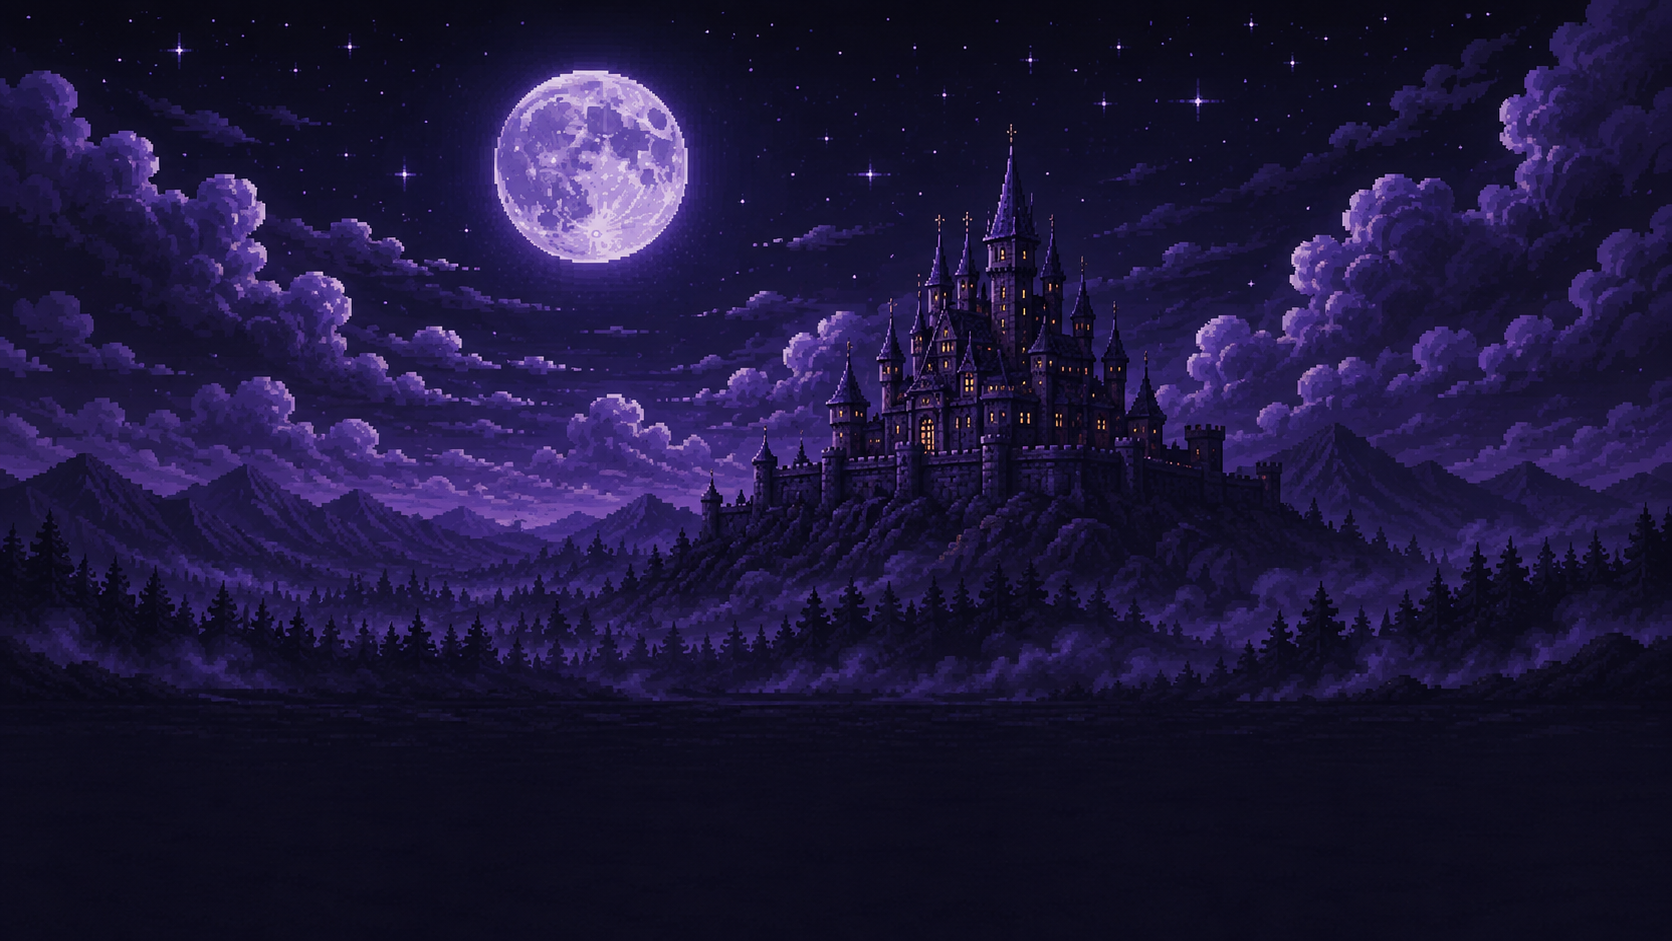
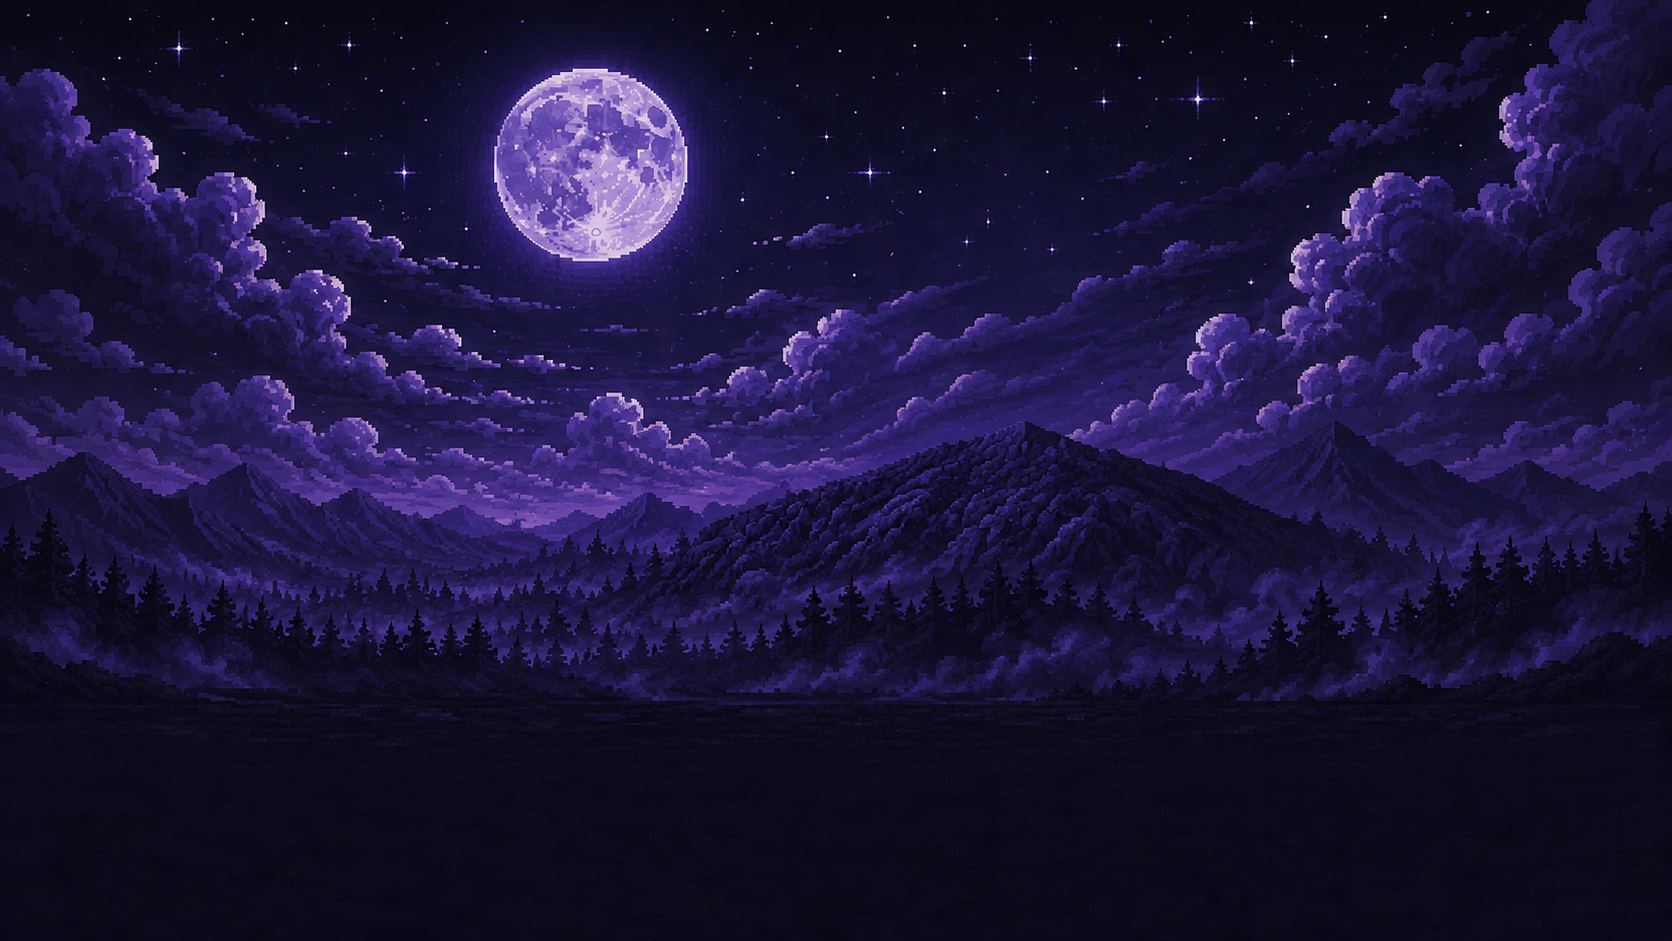
Remove all Map 1 buildings

diff --git a/app/game.tsx b/app/game.tsx
@@ -1118,10 +1118,6 @@ export default function AshfallGame() {
     const drawWorld=(w:number,h:number,scale:number,now:number)=>{
       ctx.save();ctx.scale(scale,scale);ctx.translate(-cameraX,0);
       const viewW=w/scale,map=mapRef.current,activePlatforms=platformsFor(map);
-      if(map===1){
-        ctx.fillStyle="#090f10";ctx.fillRect(3745,205,210,330);ctx.beginPath();ctx.moveTo(3716,214);ctx.lineTo(3850,95);ctx.lineTo(3982,214);ctx.fill();
-        ctx.strokeStyle="#283432";ctx.lineWidth=9;ctx.strokeRect(3768,232,165,302);ctx.fillStyle="#040809";ctx.fillRect(3814,290,74,105);
-      }
       for(const p of activePlatforms){
         if(p.x+p.w<cameraX-100||p.x>cameraX+viewW+100)continue;
         drawPixelPlatform(p,now,map);
